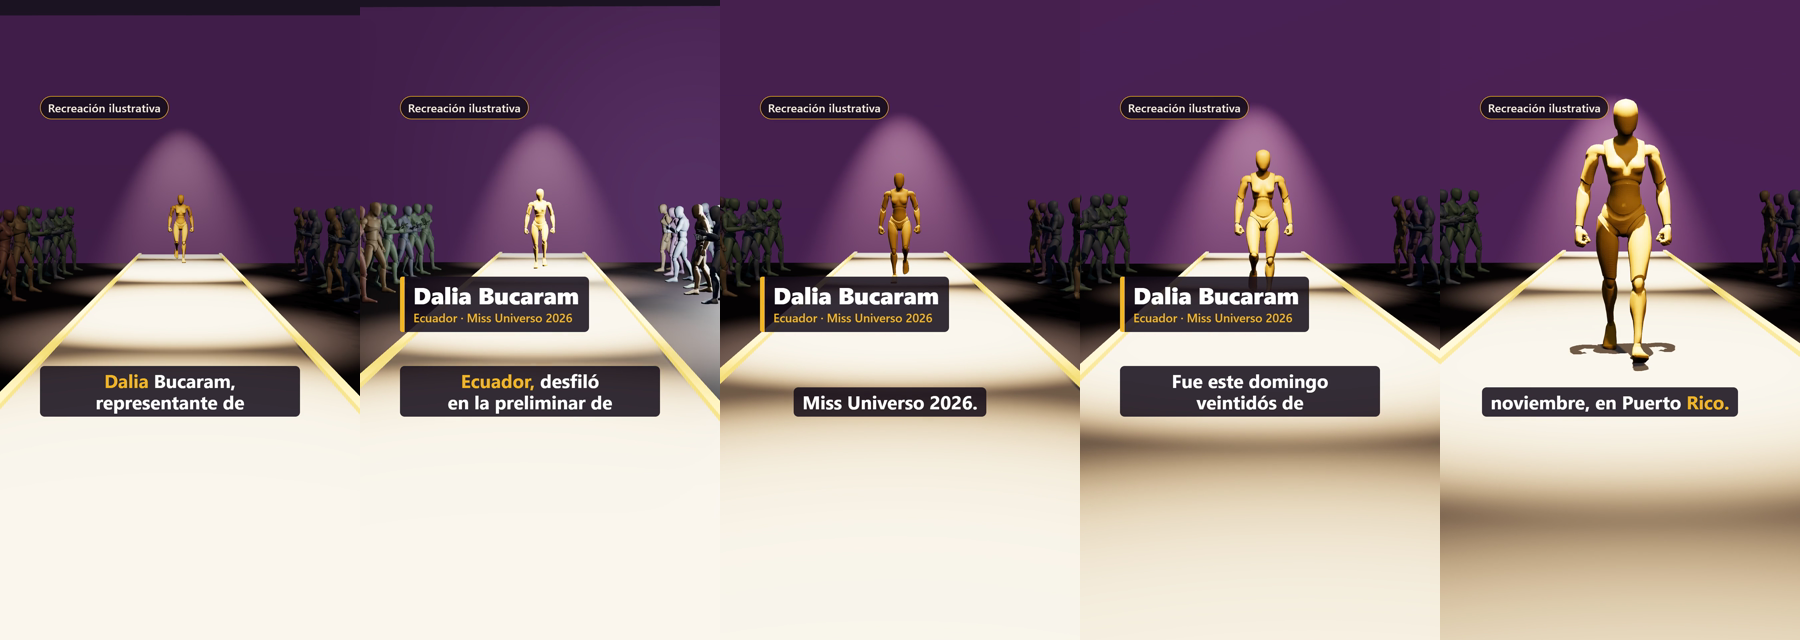
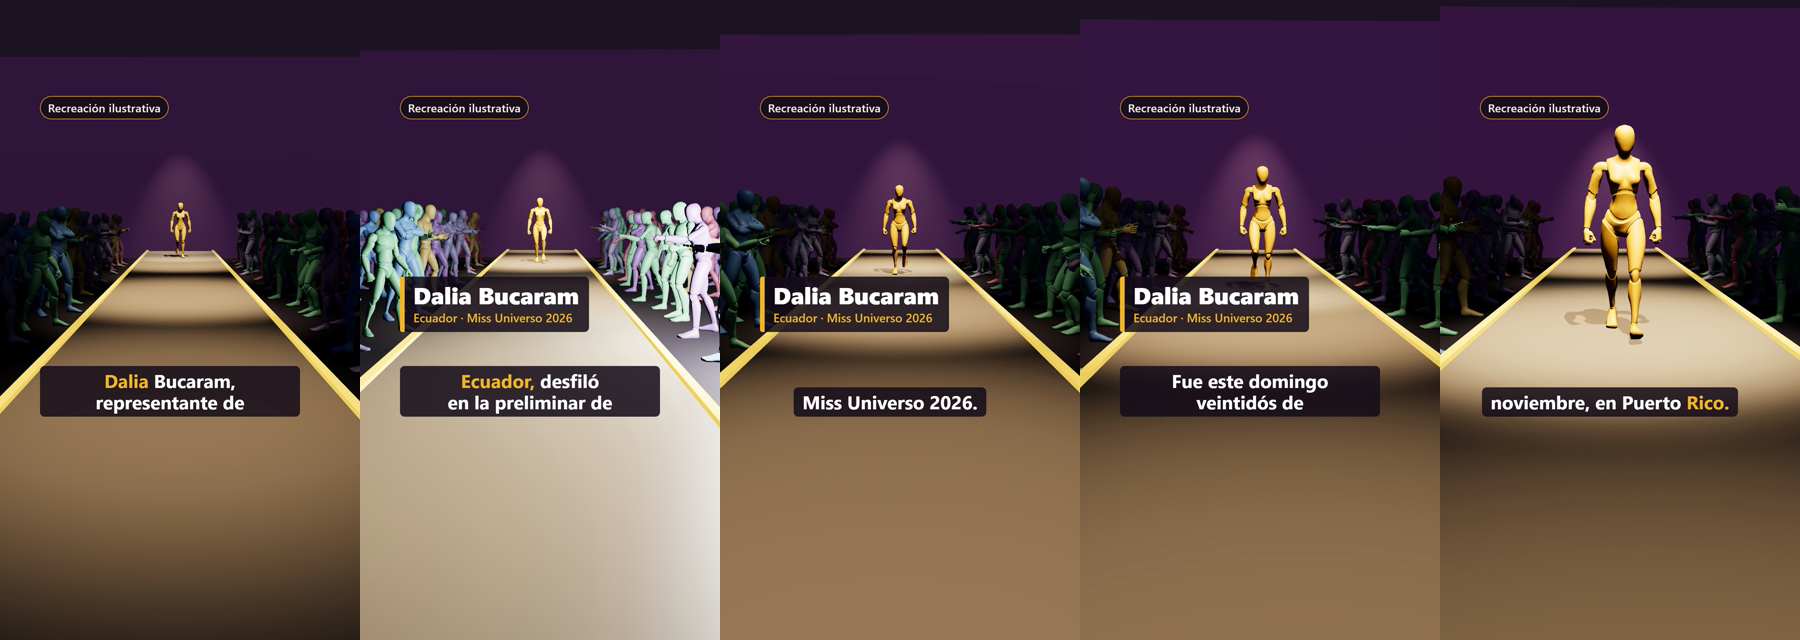
bench: pasarela v2 (luz con foco de seguimiento, público cercano y variado, flashes)

diff --git a/pruebas/render-bench/pasarela.html b/pruebas/render-bench/pasarela.html
@@ -25,43 +25,45 @@ import { GLTFLoader } from 'three/addons/loaders/GLTFLoader.js';
 import * as SkeletonUtils from 'three/addons/utils/SkeletonUtils.js';
 const P = new URLSearchParams(location.search), FPS = 24, W = 1080, H = 1920;
 const pal = await (await fetch('/dalia/palabras.json')).json(); const T = Number(P.get('T') || 10), NF = Math.round(T * FPS);
-const R = new THREE.WebGLRenderer({ antialias: true, preserveDrawingBuffer: true }); R.setPixelRatio(1); R.setSize(W, H); R.shadowMap.enabled = true; R.shadowMap.type = THREE.PCFSoftShadowMap; R.outputColorSpace = THREE.SRGBColorSpace; R.toneMapping = THREE.ACESFilmicToneMapping; R.toneMappingExposure = 1.0;
+const R = new THREE.WebGLRenderer({ antialias: true, preserveDrawingBuffer: true }); R.setPixelRatio(1); R.setSize(W, H); R.shadowMap.enabled = true; R.shadowMap.type = THREE.PCFSoftShadowMap; R.outputColorSpace = THREE.SRGBColorSpace; R.toneMapping = THREE.ACESFilmicToneMapping; R.toneMappingExposure = 0.72;
 document.getElementById('stage').appendChild(R.domElement);
 const scene = new THREE.Scene(); scene.background = new THREE.Color('#1B1322'); scene.fog = new THREE.Fog('#1B1322', 14, 34);
-const cam = new THREE.PerspectiveCamera(52, W / H, 0.1, 80);
-scene.add(new THREE.HemisphereLight(0xcfd6ff, 0x2a1a2e, 0.55));
+const cam = new THREE.PerspectiveCamera(62, W / H, 0.1, 80);
+scene.add(new THREE.HemisphereLight(0xb8c4ff, 0x3a2440, 0.45));
 // luces: focos sobre la pasarela (uno con sombra) y relleno cálido
-const spots = [[0, 7, 9], [0, 7, 3], [0, 7, -3], [0, 7, -9]].map((p, i) => { const s = new THREE.SpotLight(0xffe2bf, 360, 30, 0.42, 0.7, 1.4); s.position.set(...p); s.target.position.set(0, 0.4, p[2] - 1.5); if (i === 1) { s.castShadow = true; s.shadow.mapSize.set(2048, 2048); s.shadow.bias = -0.0004; } scene.add(s, s.target); return s; });
-const key = new THREE.DirectionalLight(0xffd9a8, 1.1); key.position.set(3, 6, 8); key.castShadow = true; key.shadow.mapSize.set(2048, 2048); Object.assign(key.shadow.camera, { left: -9, right: 9, top: 9, bottom: -9, near: 1, far: 30 }); key.shadow.bias = -0.0005; scene.add(key);
+const spots = [[0, 7, 8], [0, 7, 3], [0, 7, -3], [0, 7, -9]].map((p, i) => { const s = new THREE.SpotLight(0xffe2bf, i === 0 ? 70 : 150, 30, 0.40, 0.9, 1.4); s.position.set(...p); s.target.position.set(0, 0.4, p[2] - 1.5); if (false) { s.castShadow = true; s.shadow.mapSize.set(2048, 2048); s.shadow.bias = -0.0004; } scene.add(s, s.target); return s; });
+const follow = new THREE.SpotLight(0xfff0d8, 95, 30, 0.34, 0.8, 1.2); follow.castShadow = true; follow.shadow.mapSize.set(2048, 2048); follow.shadow.bias = -0.0004; scene.add(follow, follow.target);
+const key = new THREE.DirectionalLight(0xffd9a8, 0.25); key.position.set(3, 6, 8); key.castShadow = true; key.shadow.mapSize.set(2048, 2048); Object.assign(key.shadow.camera, { left: -9, right: 9, top: 9, bottom: -9, near: 1, far: 30 }); key.shadow.bias = -0.0005; scene.add(key);
 // suelo + pasarela + tira luminosa + pantalla LED de fondo
 const mk = (g, m, x, y, z) => { const o = new THREE.Mesh(g, m); o.position.set(x, y, z); o.castShadow = o.receiveShadow = true; scene.add(o); return o; };
 mk(new THREE.PlaneGeometry(60, 60), new THREE.MeshStandardMaterial({ color: '#150f1a', roughness: 0.85 }), 0, 0, 0).rotation.x = -Math.PI / 2;
-mk(new THREE.BoxGeometry(2.6, 0.35, 26), new THREE.MeshStandardMaterial({ color: '#BFB29B', roughness: 0.4 }), 0, 0.175, 3);
+mk(new THREE.BoxGeometry(2.6, 0.35, 26), new THREE.MeshStandardMaterial({ color: '#7F7463', roughness: 0.5 }), 0, 0.175, 3);
 for (const sx of [-1, 1]) mk(new THREE.BoxGeometry(0.08, 0.06, 26), new THREE.MeshStandardMaterial({ color: '#F0B429', emissive: '#F0B429', emissiveIntensity: 1.6 }), sx * 1.25, 0.36, 3);
 const led = mk(new THREE.BoxGeometry(22, 8, 0.2), new THREE.MeshStandardMaterial({ color: '#3A2547', emissive: '#6A3C74', emissiveIntensity: 0.55 }), 0, 4, -11); led.castShadow = false;
-const loader = new GLTFLoader(), Q = '/assets3d/_extraido/quaternius/', [gf, gm] = await Promise.all([loader.loadAsync(Q + 'Mannequin_F.glb'), loader.loadAsync(Q + 'UAL1_Standard.glb')]);
-const clip = n => gm.animations.find(a => a.name === n), mixers = [], tint = (o, c) => o.traverse(n => { if (n.isMesh) { n.castShadow = true; n.receiveShadow = true; n.frustumCulled = false; n.material = n.material.clone(); n.material.color.set(c); } });
+const loader = new GLTFLoader(), Q = '/assets3d/_extraido/quaternius/', [gf, gm, g2] = await Promise.all([loader.loadAsync(Q + 'Mannequin_F.glb'), loader.loadAsync(Q + 'UAL1_Standard.glb'), loader.loadAsync(Q + 'UAL2_Standard.glb')]);
+const clip = n => gm.animations.find(a => a.name === n) || g2.animations.find(a => a.name === n), mixers = [], tint = (o, c) => o.traverse(n => { if (n.isMesh) { n.castShadow = true; n.receiveShadow = true; n.frustumCulled = false; n.material = n.material.clone(); n.material.color.set(c); } });
 let s = 987654; const rnd = () => (s = (s * 1664525 + 1013904223) >>> 0) / 4294967296;
 // público: 3 filas por lado, colores apagados para que la protagonista pese más (saturación y luz solo en ella)
-const PAL = ['#6B5B73', '#5E6A7A', '#7A5F5A', '#5F7468', '#7A6E5A'], aud = [];
-for (const side of [-1, 1]) for (const x of [3.3, 4.4, 5.5]) for (let z = -8; z <= 5; z += 1.25) {
-  const src = rnd() < 0.5 ? gf : gm, o = SkeletonUtils.clone(src.scene), c = clip(rnd() < 0.5 ? 'Idle_Loop' : 'Idle_Talking_Loop');
-  tint(o, PAL[Math.floor(rnd() * PAL.length)]); o.position.set(side * (x + (rnd() - 0.5) * 0.35), 0, z + (rnd() - 0.5) * 0.4); o.rotation.y = side > 0 ? -Math.PI / 2 + (rnd() - 0.5) * 0.4 : Math.PI / 2 + (rnd() - 0.5) * 0.4; o.scale.setScalar(0.96 + rnd() * 0.1);
-  const mx = new THREE.AnimationMixer(o), a = mx.clipAction(c); a.play(); a.time = rnd() * c.duration; mixers.push(mx); aud.push(o); scene.add(o);
+const PAL = ['#6E5888', '#4B73A0', '#92586A', '#58926F', '#92804F', '#6A6A8A'], POSES = ['Idle_FoldArms_Loop', 'Idle_TalkingPhone_Loop', 'Idle_Talking_Loop', 'Yes', 'Idle_Torch_Loop', 'Idle_Torch_Loop', 'Dance_Loop', 'Idle_Loop', 'Interact'], aud = [], fotografos = [];
+for (const side of [-1, 1]) for (const x of [2.2, 3.2, 4.2]) for (let z = -9; z <= 7; z += 1.05) {
+  if (rnd() < 0.12) continue; const src = rnd() < 0.5 ? gf : gm, o = SkeletonUtils.clone(src.scene), nombre = POSES[Math.floor(rnd() * POSES.length)], c = clip(nombre);
+  tint(o, PAL[Math.floor(rnd() * PAL.length)]); const px = side * (x + (rnd() - 0.5) * 0.3), pz = z + (rnd() - 0.5) * 0.35; o.position.set(px, 0, pz); o.rotation.y = (side > 0 ? -Math.PI / 2 : Math.PI / 2) + (rnd() - 0.5) * 0.5; o.scale.setScalar(0.95 + rnd() * 0.12);
+  const mx = new THREE.AnimationMixer(o), a = mx.clipAction(c); a.play(); a.time = rnd() * c.duration; mixers.push({ mx, rate: 0.9 + rnd() * 0.25 }); aud.push(o); scene.add(o); if (nombre === 'Idle_Torch_Loop' && x < 3.5) fotografos.push([px - side * 0.35, 1.35, pz]);
 }
 // protagonista (maniquí femenino, dorado) caminando por la pasarela hacia la cámara
-const hero = SkeletonUtils.clone(gf.scene); tint(hero, '#F0B429'); scene.add(hero); const hm = new THREE.AnimationMixer(hero), hc = clip('Walk_Formal_Loop'); hm.clipAction(hc).play();
+const hero = SkeletonUtils.clone(gf.scene); tint(hero, '#F2A900'); scene.add(hero); const hm = new THREE.AnimationMixer(hero), hc = clip('Walk_Formal_Loop'); hm.clipAction(hc).play();
 // flashes de cámaras del público: luces puntuales que destellan en cuadros sembrados
-const flashes = [...Array(14)].map(() => { const l = new THREE.PointLight(0xffffff, 0, 14, 1.6); const side = rnd() < 0.5 ? -1 : 1; l.position.set(side * (3 + rnd() * 2), 1.5 + rnd() * 0.4, -7 + rnd() * 11); scene.add(l); return { l, f0: Math.floor(rnd() * NF), dur: 2 + Math.floor(rnd() * 2) }; });
+const glowTex = (() => { const c = document.createElement('canvas'); c.width = c.height = 128; const g = c.getContext('2d'), gr = g.createRadialGradient(64, 64, 0, 64, 64, 64); gr.addColorStop(0, 'rgba(255,255,255,1)'); gr.addColorStop(0.25, 'rgba(255,244,214,.8)'); gr.addColorStop(1, 'rgba(255,230,180,0)'); g.fillStyle = gr; g.fillRect(0, 0, 128, 128); return new THREE.CanvasTexture(c); })();
+const flashes = (fotografos.length ? fotografos : [[-3, 1.4, 0]]).map(p => { const l = new THREE.PointLight(0xffffff, 0, 16, 1.5); l.position.set(...p); scene.add(l); const sp = new THREE.Sprite(new THREE.SpriteMaterial({ map: glowTex, blending: THREE.AdditiveBlending, depthWrite: false, transparent: true, opacity: 0 })); sp.position.set(...p); sp.scale.setScalar(1.1); scene.add(sp); return { l, sp, f0: Math.floor(rnd() * NF), dur: 2, rep: 28 + Math.floor(rnd() * 40) }; });
 // subtítulos por frase (con la palabra actual resaltada, una sola)
 const W2 = pal.palabras.filter(w => w.s < T + 1), chunks = []; { let cur = []; const flush = () => { if (cur.length) { chunks.push(cur); cur = []; } }; for (const w of W2) { const len = cur.reduce((n, x) => n + x.w.length + 1, 0) + w.w.length; if (len > 36 || (cur.length >= 6 && /[,.]$/.test(cur[cur.length - 1].w))) flush(); cur.push(w); if (/[.]$/.test(w.w)) flush(); } flush(); }
 const caja = document.getElementById('caja'), card = document.getElementById('card'), ease = t => t * t * (3 - 2 * t), clamp = (x, a = 0, b = 1) => Math.max(a, Math.min(b, x));
 let lastChunk = -2;
 window.setFrame = f => {
   const t = f / FPS, u = clamp(t / T);
-  const hz = -7 + 9.4 * u; hero.position.set(0, 0.35, hz); mixers.forEach(m => m.setTime(t)); hm.setTime(t * 1.0);
+  const hz = -7 + 9.4 * u; hero.position.set(0, 0.35, hz); follow.position.set(0.8, 6.5, hz + 3.2); follow.target.position.set(0, 1.0, hz); mixers.forEach(m => m.mx.setTime(t * m.rate)); hm.setTime(t * 1.0);
   const e = ease(u); cam.position.set(Math.sin(t * 0.6) * 0.15, 1.7 - 0.35 * e, 10.5 - 4.2 * e); cam.lookAt(0, 1.1, hz * 0.55 - 1.2); cam.setViewOffset(W, H, 0, 250, W, H);
-  flashes.forEach(o => { const k = f - o.f0; o.l.intensity = k >= 0 && k < o.dur ? 90 : 0; });
+  flashes.forEach(o => { const k = ((f - o.f0) % o.rep + o.rep) % o.rep, on = k < o.dur; o.l.intensity = on ? 160 : 0; o.sp.material.opacity = on ? 1 : 0; });
   // tarjeta de nombre: entra a 1,0 s (0,4 s), sale a 7,5 s
   const ci = clamp((t - 1.0) / 0.4), co = clamp((t - 7.5) / 0.4), v = ease(ci) * (1 - ease(co)); card.style.opacity = v; card.style.transform = `translateX(${-60 * (1 - v)}px)`;
   // subtítulos

diff --git a/pruebas/render-bench/RESULTADOS.md b/pruebas/render-bench/RESULTADOS.md
@@ -63,3 +63,7 @@ Limitaciones: el maniquí femenino lleva marcas de ropa interior en dos tonos (d
 `pasarela.html` + `pasarela.js`: three.js (pasarela, pantalla LED, 4 focos, flashes de cámaras, público de 78 maniquíes Quaternius desfasados, protagonista dorada con `Walk_Formal_Loop`, dolly de cámara) + capa HTML/CSS (etiqueta "Recreación ilustrativa", tarjeta de nombre, subtítulos con una palabra resaltada, caja segura x 120-900 / y 288-1260) → capturas de página → ffmpeg con la voz.
 Resultado: 10 s, 1080x1920, 24 fps, 240 cuadros renderizados y codificados en **13 s** (3,1 MB). Hoja de cuadros: `muestras/pasarela-hoja.png`.
 Pendientes vistos: pasarela sobreexpuesta en primer plano; subtítulos cortados a mitad de frase; público oscuro y estático; sin sincronía con el resto del guion (solo las 2 primeras frases); la tarjeta y los textos son HTML a mano, aún no son recetas parametrizadas.
+
+### Ajuste de luz y público (v2)
+Luz: exposición 0.72, hemisferio 0.45, focos fijos 70/150 cd, foco que sigue a la protagonista (95 cd), pasarela más oscura. Público: 78 maniquíes más cerca de la pasarela (x 2.2-4.2), 9 poses distintas de UAL1/UAL2 (brazos cruzados, hablando, hablando por teléfono, "sí", linterna levantada, baile, etc.) con velocidades desfasadas, colores apagados para que la protagonista pese más; los que levantan la "linterna" disparan destellos de cámara (luz puntual + brillo aditivo, 2 cuadros cada 28-68). Render: 240 cuadros en 14 s.
+Aprendizaje: en three.js las unidades de luz son físicas (candelas): al duplicar focos la escena se sobreexpone muy rápido; conviene un presupuesto de luz fijo por receta.
